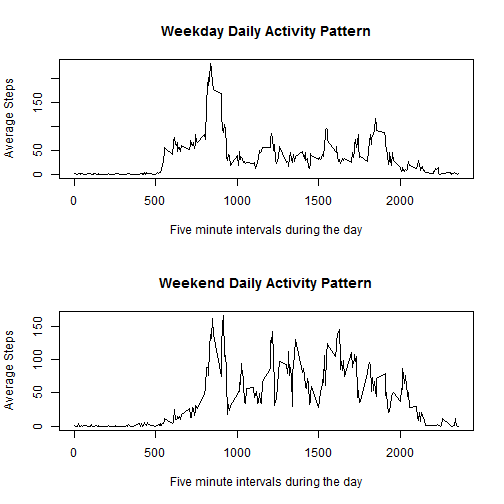
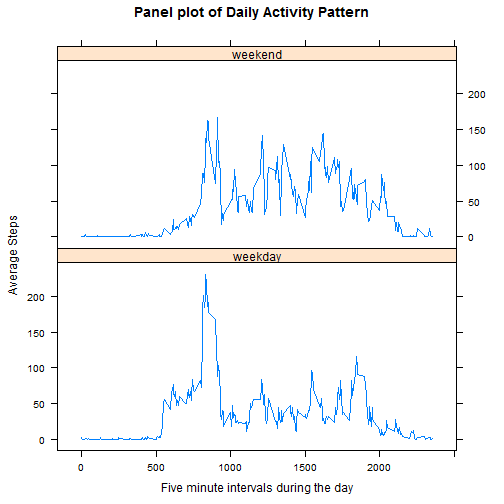
RR - Assignment 1 corrected files

diff --git a/PA1_template.html b/PA1_template.html
@@ -251,7 +251,7 @@ plot(avgSteps$interval, avgSteps$steps, type = &quot;l&quot;, main = &quot;Daily
 
 <p><strong>Interval with the maximum average of number of steps is: 835.</strong></p>
 
-<h2>Section 4 - Imputing missing (NA) values</h2>
+<h2>Section 4 - Missing (NA) values</h2>
 
 <p>There are a number of days/intervals where there are missing values (coded as NA). The presence of missing days may introduce bias into some calculations or summaries of the data. Missing values are imputed here and mean/median calculated and histogram is plotted.</p>
 
@@ -265,7 +265,7 @@ numNAs = sum(!good1)
 
 <h3>Section 4.2 - Imputing missing values</h3>
 
-<p>Missing values are set to the mean of for the respective 5-minute interval found in Section 3.1</p>
+<p>Simple strategy for replacing missing values is used. Missing values are set to the rounded value of the mean, of the steps taken during  the corresponding 5-minute interval, found in Section 3.1</p>
 
 <pre><code class="r"># Do these values differ from the estimates from the first part of the
 # assignment? What is the impact of imputing missing data on the estimates
@@ -284,11 +284,11 @@ for (i in 1:lng) {
 # Aggregate the data from interval to per day.
 actd2 = as.data.frame(xtabs(steps ~ date, data = actd))
 names(actd2)[2] = &quot;steps&quot;
-hist(actd2$steps, main = &quot;Histogram of daily steps from Oct 1, 2012 to Nov 30 2012&quot;, 
+hist(actd2$steps, main = &quot;Histogram of daily steps, after imputing missing values&quot;, 
     xlab = &quot;Steps&quot;, ylab = &quot;Frequency in #days&quot;, breaks = 25)
 </code></pre>
 
[2 lines of base64/hex data omitted]
 
 <h3>Section 4.3 - Mean and median calculations after imputing missing values</h3>
 
@@ -318,26 +318,21 @@ levels(days)[3:4] = &quot;weekend&quot;
 levels(days)[4:6] = &quot;weekday&quot;
 levels(days)[1:2] = &quot;weekday&quot;
 actd$days = days
-# Make two data frame - one for weekday days and other for weekend days.
-wkDay &lt;- actd[actd$days == &quot;weekday&quot;, ][1:3]
-wendDay &lt;- actd[actd$days == &quot;weekend&quot;, ][1:3]
 
-library(reshape2)
-mactd1 &lt;- melt(wkDay, id = c(&quot;date&quot;, &quot;interval&quot;), message.vars = vars)
-avgSteps1 &lt;- dcast(mactd1, interval ~ variable, mean, na.rm = TRUE)
-
-mactd2 &lt;- melt(wendDay, id = c(&quot;date&quot;, &quot;interval&quot;), message.vars = vars)
-avgSteps2 &lt;- dcast(mactd2, interval ~ variable, mean, na.rm = TRUE)
-
-# Create two plots - interval Vs steps
-par(mfcol = c(2, 1))
-plot(avgSteps1$interval, avgSteps1$steps, type = &quot;l&quot;, main = &quot;Weekday Daily Activity Pattern&quot;, 
-    xlab = &quot;Five minute intervals during the day&quot;, ylab = &quot;Average Steps&quot;)
-plot(avgSteps2$interval, avgSteps2$steps, type = &quot;l&quot;, main = &quot;Weekend Daily Activity Pattern&quot;, 
-    xlab = &quot;Five minute intervals during the day&quot;, ylab = &quot;Average Steps&quot;)
+library(lattice)
 </code></pre>
 
[1 lines of base64/hex data omitted]
+<pre><code>## Warning: package &#39;lattice&#39; was built under R version 3.0.3
+</code></pre>
+
+<pre><code class="r">mlt1 &lt;- melt(actd, id = c(&quot;date&quot;, &quot;interval&quot;, &quot;days&quot;), message.vars = vars)
+astp1 &lt;- dcast(mlt1, interval + days ~ variable, mean, na.rm = TRUE)
+xyplot(astp1$steps ~ astp1$interval | astp1$days, layout = c(1, 2), type = &quot;l&quot;, 
+    main = &quot;Panel plot of Daily Activity Pattern&quot;, xlab = &quot;Five minute intervals during the day&quot;, 
+    ylab = &quot;Average Steps&quot;)
+</code></pre>
+
[1 lines of base64/hex data omitted]
 
 </body>
 

diff --git a/PA1_template.md b/PA1_template.md
@@ -75,7 +75,7 @@ mInt = avgSteps[avgSteps$steps == max(avgSteps$steps), ]$interval
 
 **Interval with the maximum average of number of steps is: 835.**
 
-## Section 4 - Imputing missing (NA) values
+## Section 4 - Missing (NA) values
 There are a number of days/intervals where there are missing values (coded as NA). The presence of missing days may introduce bias into some calculations or summaries of the data. Missing values are imputed here and mean/median calculated and histogram is plotted.
 
 ### Section 4.1 - Total number missing values (i.e. the total number of rows with NAs)
@@ -90,7 +90,7 @@ numNAs = sum(!good1)
 **Total number of rows with NAs: 2304.**
 
 ### Section 4.2 - Imputing missing values
-Missing values are set to the mean of for the respective 5-minute interval found in Section 3.1
+Simple strategy for replacing missing values is used. Missing values are set to the rounded value of the mean, of the steps taken during  the corresponding 5-minute interval, found in Section 3.1
 
 
 ```r
@@ -111,7 +111,7 @@ for (i in 1:lng) {
 # Aggregate the data from interval to per day.
 actd2 = as.data.frame(xtabs(steps ~ date, data = actd))
 names(actd2)[2] = "steps"
-hist(actd2$steps, main = "Histogram of daily steps from Oct 1, 2012 to Nov 30 2012", 
+hist(actd2$steps, main = "Histogram of daily steps, after imputing missing values", 
     xlab = "Steps", ylab = "Frequency in #days", breaks = 25)
 ```
 
@@ -149,23 +149,20 @@ levels(days)[3:4] = "weekend"
 levels(days)[4:6] = "weekday"
 levels(days)[1:2] = "weekday"
 actd$days = days
-# Make two data frame - one for weekday days and other for weekend days.
-wkDay <- actd[actd$days == "weekday", ][1:3]
-wendDay <- actd[actd$days == "weekend", ][1:3]
 
-library(reshape2)
-mactd1 <- melt(wkDay, id = c("date", "interval"), message.vars = vars)
-avgSteps1 <- dcast(mactd1, interval ~ variable, mean, na.rm = TRUE)
+library(lattice)
+```
 
-mactd2 <- melt(wendDay, id = c("date", "interval"), message.vars = vars)
-avgSteps2 <- dcast(mactd2, interval ~ variable, mean, na.rm = TRUE)
+```
+## Warning: package 'lattice' was built under R version 3.0.3
+```
 
-# Create two plots - interval Vs steps
-par(mfcol = c(2, 1))
-plot(avgSteps1$interval, avgSteps1$steps, type = "l", main = "Weekday Daily Activity Pattern", 
-    xlab = "Five minute intervals during the day", ylab = "Average Steps")
-plot(avgSteps2$interval, avgSteps2$steps, type = "l", main = "Weekend Daily Activity Pattern", 
-    xlab = "Five minute intervals during the day", ylab = "Average Steps")
+```r
+mlt1 <- melt(actd, id = c("date", "interval", "days"), message.vars = vars)
+astp1 <- dcast(mlt1, interval + days ~ variable, mean, na.rm = TRUE)
+xyplot(astp1$steps ~ astp1$interval | astp1$days, layout = c(1, 2), type = "l", 
+    main = "Panel plot of Daily Activity Pattern", xlab = "Five minute intervals during the day", 
+    ylab = "Average Steps")
 ```
 
 ![plot of chunk unnamed-chunk-9](figure/unnamed-chunk-9.png) 
